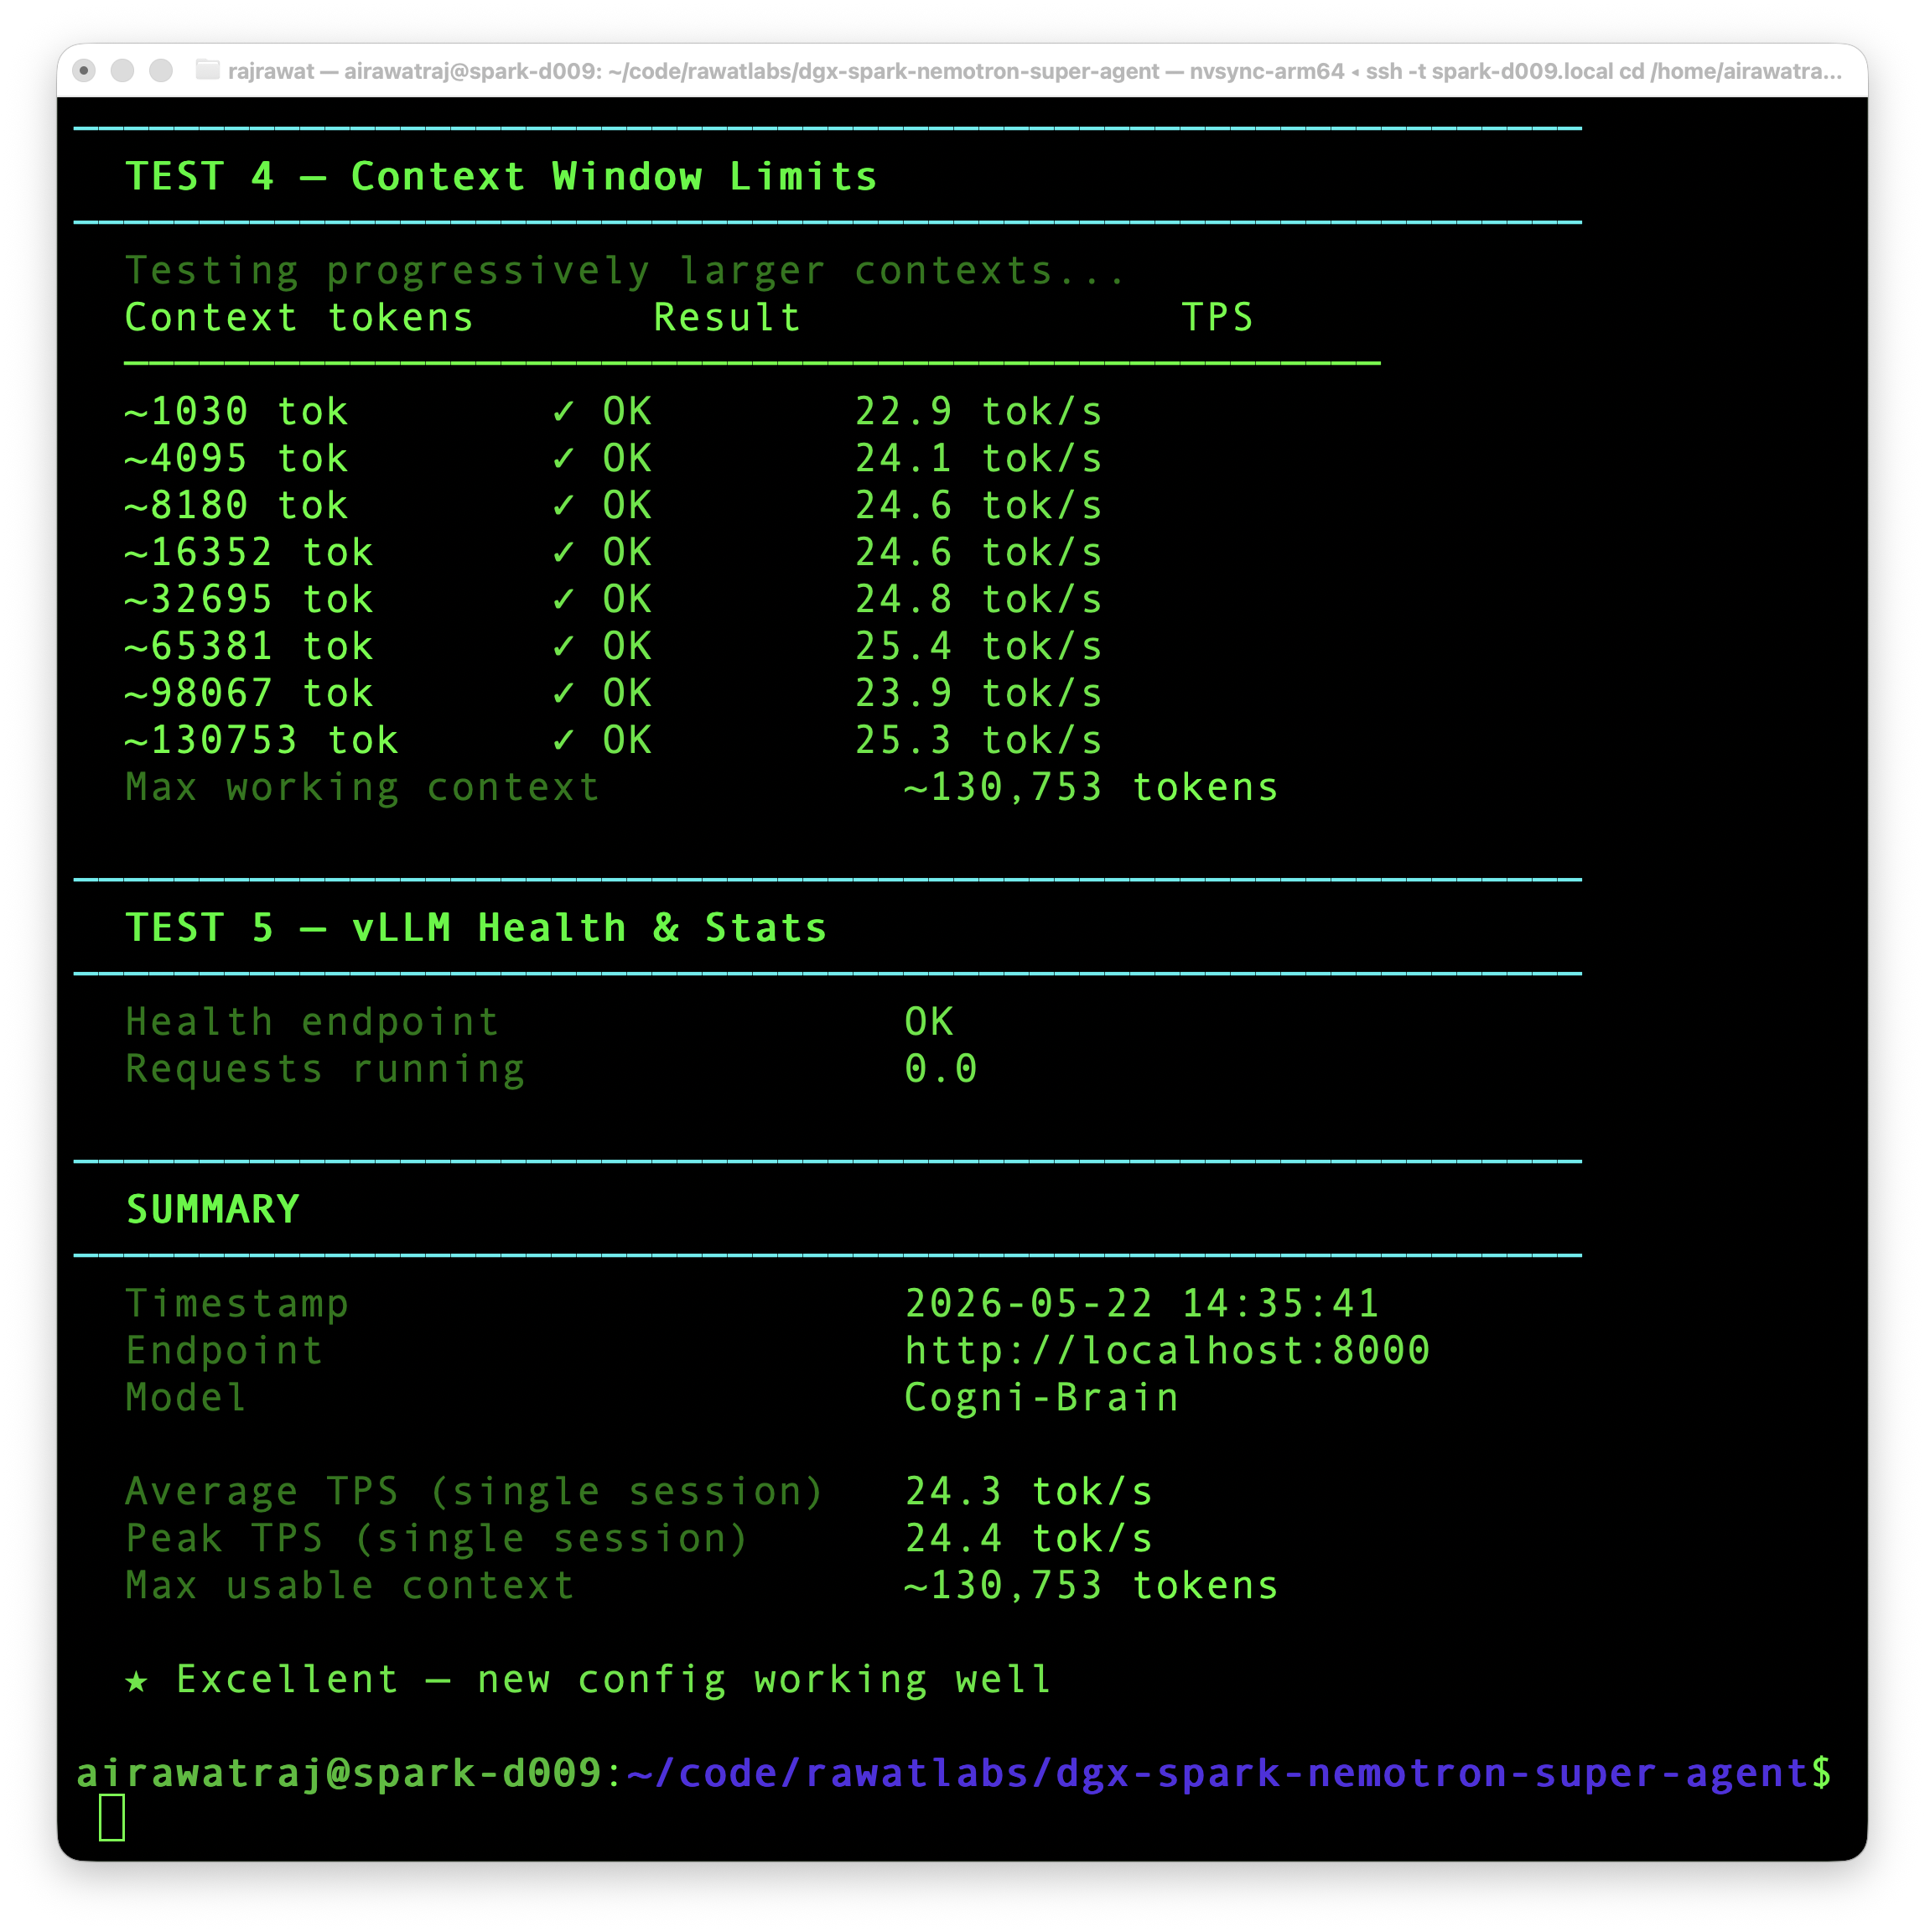
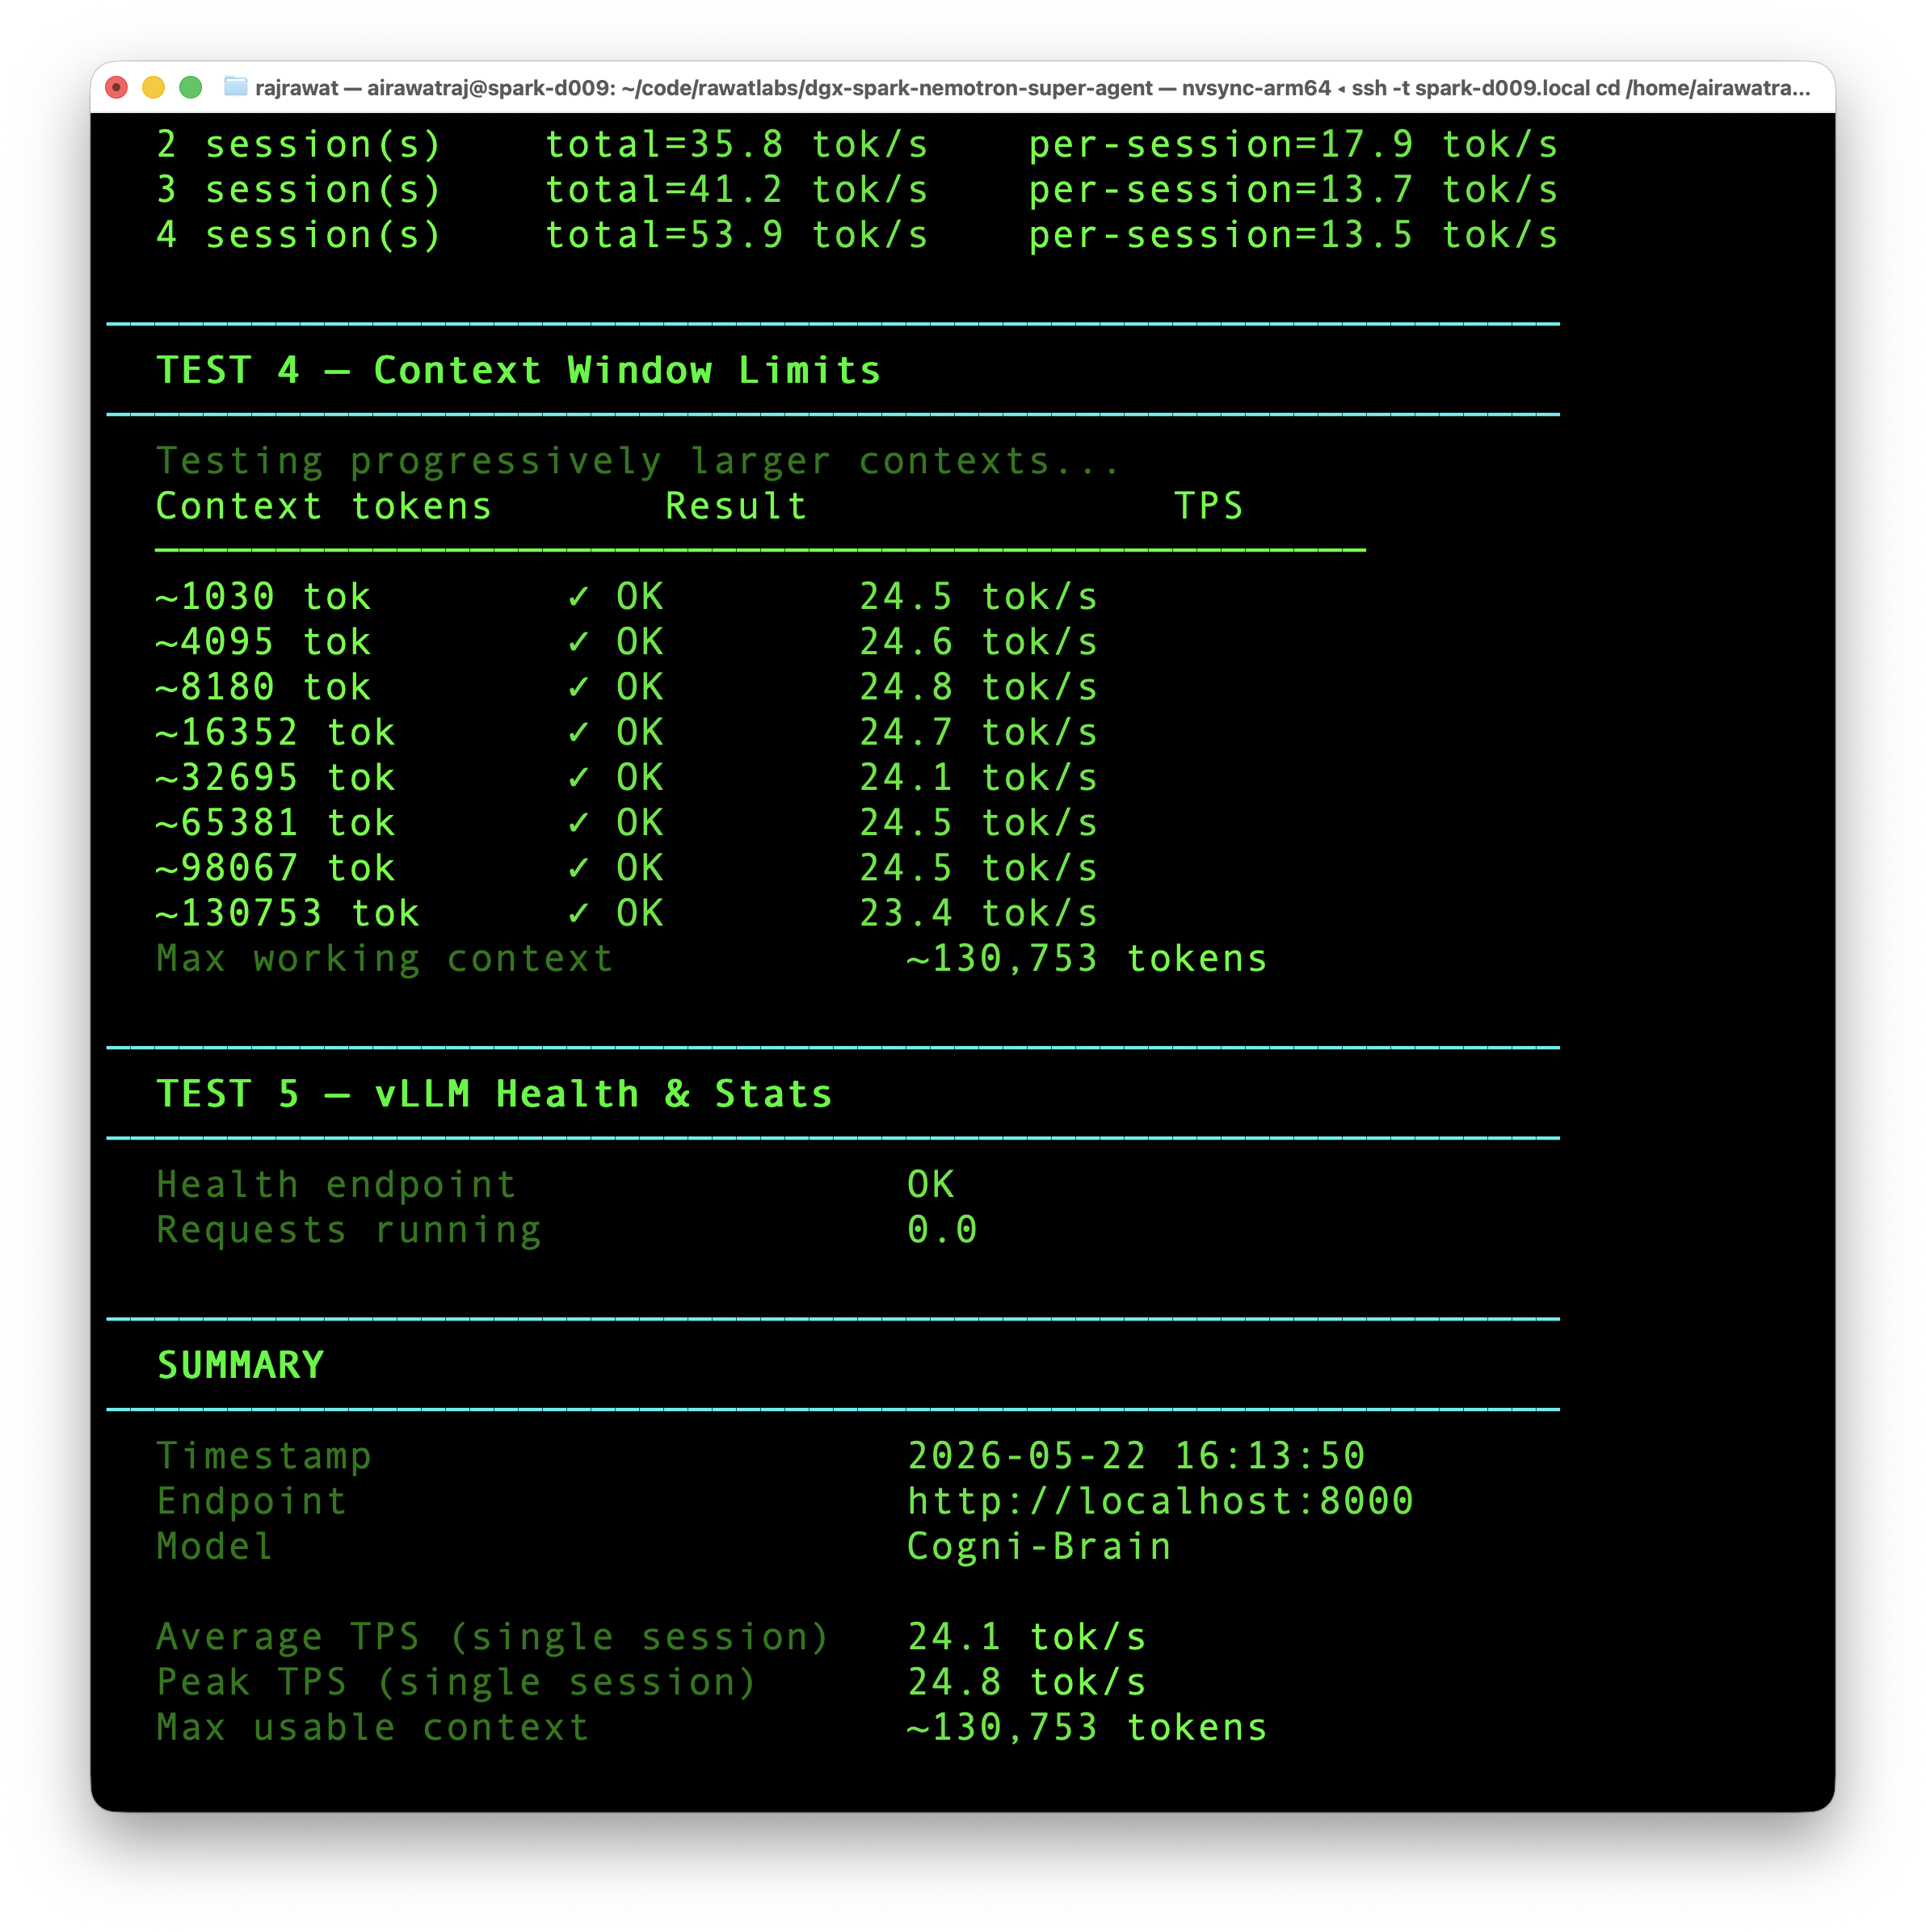
docs: update benchmark methodology and refresh speed results

Changed region(s): [[0.0309, 0.0312, 0.9895, 0.9688], [0.6185, 0.25, 0.6494, 0.2812]]

diff --git a/benchmark/benchmark_speed.py b/benchmark/benchmark_speed.py
@@ -144,6 +144,18 @@ def test_baseline_tps(host, port, model, debug=False):
     runs = 3
     results = []
 
+    print("  Running warmup request (not included in averages)...")
+    warmup_ttft, warmup_tps, warmup_tokens, _, warmup_err = stream_completion(
+        host, port, model, prompt, max_tokens=300, debug=debug
+    )
+    if warmup_err:
+        print(c(f"  ⚠ Warmup failed: {warmup_err}", "yellow"))
+    else:
+        print(
+            f"  Warmup: TTFT={c(str(warmup_ttft)+'ms', 'yellow')}  "
+            f"TPS={c(str(warmup_tps), 'green')}  tokens={warmup_tokens}"
+        )
+
     print(f"  Running {runs} consecutive requests...")
     for i in range(runs):
         ttft, tps, tokens, _, err = stream_completion(host, port, model, prompt, max_tokens=300, debug=debug)
@@ -158,9 +170,11 @@ def test_baseline_tps(host, port, model, debug=False):
         avg_tps = round(statistics.mean([r[1] for r in results]), 1)
         avg_ttft = round(statistics.mean([r[0] for r in results]))
         peak_tps = max([r[1] for r in results])
+        if warmup_ttft is not None and not warmup_err:
+            result_line("Warmup TTFT", warmup_ttft, "ms", "yellow")
         result_line("Average TPS", avg_tps, "tok/s", "green")
         result_line("Peak TPS", peak_tps, "tok/s", "green")
-        result_line("Average TTFT", avg_ttft, "ms", "yellow")
+        result_line("Average TTFT (steady state)", avg_ttft, "ms", "yellow")
         return avg_tps, peak_tps
     return 0, 0
 

diff --git a/benchmark/benchmark_smarts.py b/benchmark/benchmark_smarts.py
@@ -48,6 +48,8 @@ def result_line(label, value, color="green"):
 
 def build_command(args):
     command = [
+        "uv",
+        "run",
         "tool-eval-bench",
         "--base-url",
         args.base_url,
@@ -116,8 +118,8 @@ def main():
         print()
         print(f"  {c('Runs deterministic evaluation across repeated trials.', 'yellow')}")
 
-    if shutil.which("tool-eval-bench") is None:
-        print(f"\n{c('✗ tool-eval-bench is not installed or not on PATH', 'red')}")
+    if shutil.which("uv") is None:
+        print(f"\n{c('✗ uv is not installed or not on PATH', 'red')}")
         sys.exit(1)
 
     command = build_command(args)
@@ -134,7 +136,7 @@ def main():
         print(f"\n{c('Benchmark interrupted by user', 'yellow')}")
         sys.exit(130)
     except FileNotFoundError:
-        print(f"\n{c('✗ Failed to start tool-eval-bench', 'red')}")
+        print(f"\n{c('✗ Failed to start uv or tool-eval-bench', 'red')}")
         sys.exit(1)
 
     if completed.returncode == 0:

diff --git a/METHODOLOGY.md b/METHODOLOGY.md
@@ -158,10 +158,11 @@ All results use exact `completion_tokens` from vLLM's streaming usage API.
 
 | Run | TTFT | TPS | Output tokens |
 |---|---|---|---|
-| 1 | 218ms | 24.4 | 300 |
-| 2 | 208ms | 24.2 | 300 |
-| 3 | 210ms | 24.4 | 300 |
-| **Average** | **212ms** | **24.3** | |
+| Warmup | 208ms | 23.7 | 300 |
+| 1 | 269ms | 24.0 | 300 |
+| 2 | 209ms | 23.5 | 300 |
+| 3 | 209ms | 24.8 | 300 |
+| **Average (steady state)** | **229ms** | **24.1** | |
 
 ### Concurrent Sessions (Custom Script)
 
@@ -170,10 +171,10 @@ time for the batch, rather than summing per-request TPS values.
 
 | Sessions | Total TPS | Per-session TPS |
 |---|---|---|
-| 1 | 22.6 | 22.6 |
-| 2 | 36.3 | 18.1 |
-| 3 | 40.9 | 13.6 |
-| 4 | 54.6 | 13.7 |
+| 1 | 23.5 | 23.5 |
+| 2 | 35.8 | 17.9 |
+| 3 | 41.2 | 13.7 |
+| 4 | 53.9 | 13.5 |
 
 ---
 
@@ -193,16 +194,16 @@ time for the batch, rather than summing per-request TPS values.
 
 ## Comparison With Prior Published Results
 
-| Who | TPS | Stack | Context | Concurrent | Production services |
-|---|---|---|---|---|---|
-| **[Cogni-Brain (airawatraj)](https://spark-arena.com/benchmark/sub1778644062716) — official** | **23.45** | NVFP4 + vLLM | 131K | 1 | none (spark-arena standard) |
-| **Cogni-Brain (airawatraj) — custom script** | **24.3** | NVFP4 + vLLM | 131K | 1 | none |
-| **Cogni-Brain (airawatraj) — custom script concurrent** | **54.6** | NVFP4 + vLLM | 131K | 4 | none |
-| [Seth Hobson](https://spark-arena.com/benchmark/a3dd9b9f-d9a6-485b-af72-fd34150a8b7c) (spark-arena, tg128) | 21.66 | NVFP4 + vLLM | 131K | 1 | none |
-| [Seth Hobson](https://spark-arena.com/benchmark/a3dd9b9f-d9a6-485b-af72-fd34150a8b7c) (spark-arena, tg128) | 53.55 | NVFP4 + vLLM | 131K | 5 | none |
-| [Saiyam Pathak](https://saiyampathak.medium.com/heres-what-i-learned-about-nemotron-3-super-i-ran-a-120b-parameter-model-on-nvidia-dgx-spark-fc5b3be12ae1) | 19.5 | Q4_K_M GGUF + llama.cpp | 262K | 1 | none |
-| [Raphael Amorim](https://spark-arena.com/benchmark/55beae02-e7a5-4e8a-98d3-325ba86b4583) | 16.55 | NVFP4 + vLLM | 262K | unknown | none |
-| josephbreda | 16–17 | NVFP4 + vLLM | unknown | 1 | none |
+| Who | TPS | Stack | Context | Concurrent |
+|---|---|---|---|---|
+| **[Cogni-Brain (airawatraj)](https://spark-arena.com/benchmark/sub1778644062716) — official** | **23.45** | NVFP4 + vLLM | 131K | 1 |
+| **Cogni-Brain (airawatraj) — custom script** | **24.1** | NVFP4 + vLLM | 131K | 1 |
+| **Cogni-Brain (airawatraj) — custom script concurrent** | **53.9** | NVFP4 + vLLM | 131K | 4 |
+| [Seth Hobson](https://spark-arena.com/benchmark/a3dd9b9f-d9a6-485b-af72-fd34150a8b7c) (spark-arena, tg128) | 21.66 | NVFP4 + vLLM | 131K | 1 |
+| [Seth Hobson](https://spark-arena.com/benchmark/a3dd9b9f-d9a6-485b-af72-fd34150a8b7c) (spark-arena, tg128) | 53.55 | NVFP4 + vLLM | 131K | 5 |
+| [Saiyam Pathak](https://saiyampathak.medium.com/heres-what-i-learned-about-nemotron-3-super-i-ran-a-120b-parameter-model-on-nvidia-dgx-spark-fc5b3be12ae1) | 19.5 | Q4_K_M GGUF + llama.cpp | 262K | 1 |
+| [Raphael Amorim](https://spark-arena.com/benchmark/55beae02-e7a5-4e8a-98d3-325ba86b4583) | 16.55 | NVFP4 + vLLM | 262K | unknown |
+| josephbreda | 16–17 | NVFP4 + vLLM | unknown | 1 |
 
 > **Note:** spark-arena tg128 results use 128 fixed output tokens with no production services.
 > The official submission matches this methodology exactly.

diff --git a/README.md b/README.md
@@ -95,12 +95,12 @@ View full benchmark: [spark-arena.com/benchmark/sub1778644062716](https://spark-
 
 | Metric | Result |
 |---|---|
-| Single session TPS (average) | **24.3 tok/s** |
-| Single session TPS (peak) | **24.4 tok/s** |
-| 4 concurrent sessions (total) | **54.6 tok/s** |
-| 3 concurrent sessions (total) | **40.9 tok/s** |
+| Single session TPS (average) | **24.1 tok/s** |
+| Single session TPS (peak) | **24.8 tok/s** |
+| 4 concurrent sessions (total) | **53.9 tok/s** |
+| 3 concurrent sessions (total) | **41.2 tok/s** |
 | Max context window | **130,753 tokens** |
-| TTFT (average) | **212ms** |
+| TTFT (steady state) | **229ms** |
 
 <p align="center">
   <img src="./assets/benchmark_test_1-3.png" width="600" alt="Benchmark Test 1-3">
@@ -151,16 +151,16 @@ View full benchmark: [spark-arena.com/benchmark/sub1778644062716](https://spark-
 > and are not directly comparable for agentic workloads.
 
 
-| Who | TPS | Stack | Context | Concurrent | Production services |
-|---|---|---|---|---|---|
-| **[Cogni-Brain (airawatraj)](https://spark-arena.com/benchmark/sub1778644062716) — official** | **23.45** | NVFP4 + vLLM | 131K | 1 | none (spark-arena standard) |
-| **Cogni-Brain (airawatraj) — custom script** | **24.3** | NVFP4 + vLLM | 131K | 1 | none |
-| **Cogni-Brain (airawatraj) — custom script concurrent** | **54.6** | NVFP4 + vLLM | 131K | 4 | none |
-| [Seth Hobson](https://spark-arena.com/benchmark/a3dd9b9f-d9a6-485b-af72-fd34150a8b7c) (spark-arena, tg128) | 21.66 | NVFP4 + vLLM | 131K | 1 | none |
-| [Seth Hobson](https://spark-arena.com/benchmark/a3dd9b9f-d9a6-485b-af72-fd34150a8b7c) (spark-arena, tg128) | 53.55 | NVFP4 + vLLM | 131K | 5 | none |
-| [Saiyam Pathak](https://saiyampathak.medium.com/heres-what-i-learned-about-nemotron-3-super-i-ran-a-120b-parameter-model-on-nvidia-dgx-spark-fc5b3be12ae1) | 19.5 | Q4_K_M GGUF + llama.cpp | 262K | 1 | none |
-| [Raphael Amorim](https://spark-arena.com/benchmark/55beae02-e7a5-4e8a-98d3-325ba86b4583) | 16.55 | NVFP4 + vLLM | 262K | unknown | none |
-| josephbreda | 16–17 | NVFP4 + vLLM | unknown | 1 | none |
+| Who | TPS | Stack | Context | Concurrent |
+|---|---|---|---|---|
+| **[Cogni-Brain (airawatraj)](https://spark-arena.com/benchmark/sub1778644062716) — official** | **23.45** | NVFP4 + vLLM | 131K | 1 |
+| **Cogni-Brain (airawatraj) — custom script** | **24.1** | NVFP4 + vLLM | 131K | 1 |
+| **Cogni-Brain (airawatraj) — custom script concurrent** | **53.9** | NVFP4 + vLLM | 131K | 4 |
+| [Seth Hobson](https://spark-arena.com/benchmark/a3dd9b9f-d9a6-485b-af72-fd34150a8b7c) (spark-arena, tg128) | 21.66 | NVFP4 + vLLM | 131K | 1 |
+| [Seth Hobson](https://spark-arena.com/benchmark/a3dd9b9f-d9a6-485b-af72-fd34150a8b7c) (spark-arena, tg128) | 53.55 | NVFP4 + vLLM | 131K | 5 |
+| [Saiyam Pathak](https://saiyampathak.medium.com/heres-what-i-learned-about-nemotron-3-super-i-ran-a-120b-parameter-model-on-nvidia-dgx-spark-fc5b3be12ae1) | 19.5 | Q4_K_M GGUF + llama.cpp | 262K | 1 |
+| [Raphael Amorim](https://spark-arena.com/benchmark/55beae02-e7a5-4e8a-98d3-325ba86b4583) | 16.55 | NVFP4 + vLLM | 262K | unknown |
+| josephbreda | 16–17 | NVFP4 + vLLM | unknown | 1 |
 
 The official spark-arena submission achieved **23.45 TPS** (tg128, vLLM, NVFP4, Single Node, no production services) —
 the highest single-node result published for Nemotron-3-Super-120B-A12B-NVFP4 as of May 22, 2026.
@@ -203,8 +203,12 @@ docker logs -f spark-brain | grep "Application startup complete"
 # 6. Configure OpenShell Gateway Timeout (Critical for heavy agentic tasks)
 openshell inference set -g nemoclaw --provider compatible-endpoint --model Cogni-Brain --timeout 600
 
-# 7. Run benchmark
+# 7. Run benchmarks
 uv run benchmark/benchmark_speed.py
+# Optional: full spark-arena-style overnight sweep
+uv run benchmark/benchmark_speed_arena.py --save-result benchmark/results_full.csv
+# Optional: tool-use capability benchmark
+uv run benchmark/benchmark_smarts.py
 ```
 
 ---